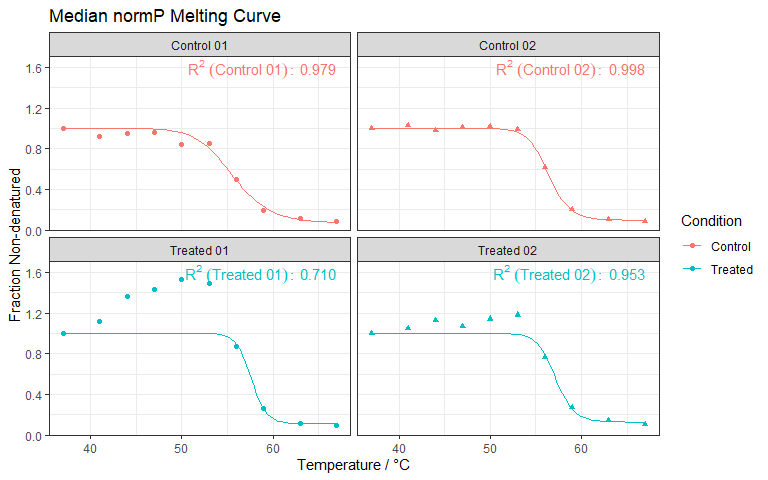
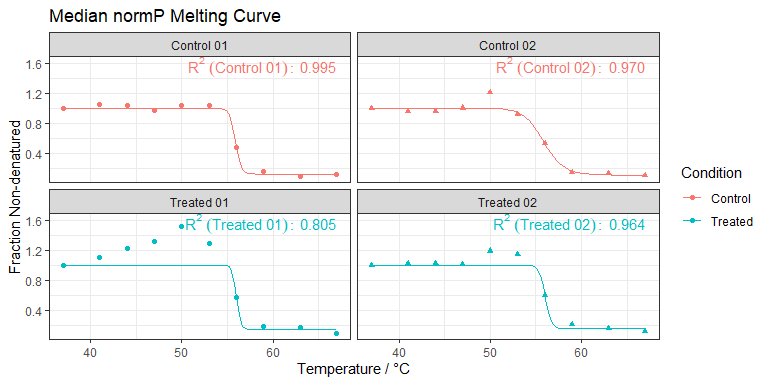
Build readme with 20-protein example

diff --git a/README.md b/README.md
@@ -138,17 +138,17 @@ and defines maximum parallel cores to use for these operations.
 - Default *4*.
 
 ``` r
-# Pipeline example: 4-protein test data
+# Pipeline example: 20-protein test data
 library(tidyTPP)
 
-four_prot_report <-
-    system.file("extdata", "4_protein_peptide_report.csv", package = "tidyTPP")
+twenty_prot_report <-
+    system.file("extdata", "20_protein_peptide_report.csv", package = "tidyTPP")
 experiment_config <-
-    system.file("extdata", "4_protein_config.csv", package = "tidyTPP")
+    system.file("extdata", "20_protein_config.csv", package = "tidyTPP")
 
 # Apply pipeline
 TPP_hits <- 
-  apply_TPP_pipeline(datafile = four_prot_report,
+  apply_TPP_pipeline(datafile = twenty_prot_report,
                     config = experiment_config,
                     import_format = "spectronaut",
                     to_plot = TRUE,
@@ -159,20 +159,21 @@ Result:
 
 ``` r
 TPP_hits
-#> # A tibble: 1 × 10
+#> # A tibble: 2 × 10
 #>   Protein_ID Condition Comparison         F_scaled p_adj_NPARC max_adj_pvalue
 #>   <chr>      <chr>     <chr>                 <dbl>       <dbl>          <dbl>
-#> 1 Protein_A  Treated   Treated_vs_Control     4.52     0.00179          0.604
+#> 1 Protein_I  Treated   Treated_vs_Control     23.2   0.0000901      0.0000141
+#> 2 Protein_C  Treated   Treated_vs_Control     14.1   0.00118        0.0981   
 #> # ℹ 4 more variables: mean_melt_point <dbl>, mean_control_melt_point <dbl>,
 #> #   mean_diff_melt_point <dbl>, mean_control_diff_melt_point <dbl>
 ```
 
 <img src="man/figures/README-apply_pipeline-4.png"
-style="width:75.0%" />
+style="width:100.0%" />
 
 ## Example: Function detail
 
-This example will walk through the main functions using 4-protein
+This example will walk through the main functions using 20-protein
 example data
 
 ### Import
@@ -182,11 +183,11 @@ program-specific format, and a configuration file, defining conditions,
 replicates and temperatures, in the format shown.
 
 ``` r
-# 4-protein example data
-four_prot_report <-
-    system.file("extdata", "4_protein_peptide_report.csv", package = "tidyTPP")
+# 20-protein example data
+twenty_prot_report <-
+    system.file("extdata", "20_protein_peptide_report.csv", package = "tidyTPP")
 experiment_config <-
-    system.file("extdata", "4_protein_config.csv", package = "tidyTPP")
+    system.file("extdata", "20_protein_config.csv", package = "tidyTPP")
 experiment_dir <- system.file("extdata", package = "tidyTPP")
   
 # Config file contents
@@ -204,52 +205,52 @@ read.csv(experiment_config)[1:10,]
 #> 10         10   Control         1   67
 
 # Import using spectronaut import format
-four_prot_quan_data <- 
-  import_spectronaut(datafile = "4_protein_peptide_report.csv",
-                     config = "4_protein_config.csv",
+twenty_prot_quan_data <- 
+  import_spectronaut(datafile = "20_protein_peptide_report.csv",
+                     config = "20_protein_config.csv",
                      path = experiment_dir)
 #> 
 #> --------------------
 #> TPP Data Import
 #> --------------------
 #> Read in:
-#> 4_protein_peptide_report.csv 
-#> 4_protein_config.csv 
+#> 20_protein_peptide_report.csv 
+#> 20_protein_config.csv 
 #> --------------------
 #> Pivoting to long table...
 #> Transforming experiment names...
 #> Matching to experiment config data...
 #> Finding relative quantity values...
 #> Data imported.
-#> Found 4 proteins.
+#> Found 20 proteins.
 #> --------------------
 
 # Resulting tibble
-four_prot_quan_data
-#> # A tibble: 160 × 8
+twenty_prot_quan_data
+#> # A tibble: 800 × 8
 #>    Protein_ID Pep_N Match_N Condition Replicate  Temp rel_quantity raw_quantity
 #>    <chr>      <dbl>   <dbl> <chr>     <chr>     <int>        <dbl>        <dbl>
-#>  1 Protein_A     36      62 Control   01           37      1           7913466.
-#>  2 Protein_A     36      62 Control   01           41      0.915       7238843 
-#>  3 Protein_A     36      62 Control   01           44      0.895       7083090 
-#>  4 Protein_A     36      62 Control   01           47      0.689       5454540.
-#>  5 Protein_A     36      62 Control   01           50      0.416       3291901 
-#>  6 Protein_A     36      62 Control   01           53      0.195       1542812.
-#>  7 Protein_A     36      62 Control   01           56      0.0458       362589.
-#>  8 Protein_A     36      62 Control   01           59      0.0168       132594.
-#>  9 Protein_A     36      62 Control   01           63      0.0258       204328.
-#> 10 Protein_A     36      62 Control   01           67      0.00986       78023.
-#> # ℹ 150 more rows
+#>  1 Protein_A     29      42 Control   01           37       1          1401047.
+#>  2 Protein_A     29      42 Control   01           41       1.05       1464157.
+#>  3 Protein_A     29      42 Control   01           44       1.06       1485400.
+#>  4 Protein_A     29      42 Control   01           47       1.12       1568061.
+#>  5 Protein_A     29      42 Control   01           50       1.35       1889459 
+#>  6 Protein_A     29      42 Control   01           53       1.29       1801219.
+#>  7 Protein_A     29      42 Control   01           56       0.450       630379.
+#>  8 Protein_A     29      42 Control   01           59       0.116       162054.
+#>  9 Protein_A     29      42 Control   01           63       0.0945      132437.
+#> 10 Protein_A     29      42 Control   01           67       0.166       232101.
+#> # ℹ 790 more rows
 ```
 
 Data at this stage can be plotted to directly observe relative but *not
 yet normalised* protein curves.
 
 ``` r
-plot_melt(four_prot_quan_data)
+plot_melt(twenty_prot_quan_data)
 ```
 
-<img src="man/figures/README-example_import_plot-1.png" width="75%" />
+<img src="man/figures/README-example_import_plot-1.png" width="100%" />
 
 ### Normalisation
 
@@ -258,9 +259,9 @@ normalising against fitted median melting curves, as described by
 Savitsky *et al.* 2014.<sup>[1](#ref-Savitski_2014)</sup>
 
 ``` r
-# Normalise four-protein data, with visualisation
-four_prot_normalised <- 
-  normalise_TPP(TPP_tbl = four_prot_quan_data,
+# Normalise twenty-protein data, with visualisation
+twenty_prot_normalised <- 
+  normalise_TPP(TPP_tbl = twenty_prot_quan_data,
                 to_plot = TRUE)
 #> --------------------
 #> TPP Normalisation
@@ -269,7 +270,7 @@ four_prot_normalised <-
 #>     col lower upper
 #> 1 Pep_N     2   Inf
 #> 
-#> jointP contains 4 Proteins.
+#> jointP contains 20 Proteins.
 #> 
 #> normP criteria:
 #>   Temp lower upper
@@ -277,52 +278,52 @@ four_prot_normalised <-
 #> 2   63  -Inf   0.3
 #> 3   67  -Inf   0.2
 #> 
-#> normP contains 2 Proteins.
+#> normP contains 6 Proteins.
 #> --------------------
 #> Fit melting curve to normP medians:
 #> 
 #> Fitting 4 protein curves...
-#> Estimated total process time: 0.92 s
+#> Estimated total process time: 2.24 s
 #> |==        | 1 of 4|=====     | 2 of 4|=======   | 3 of 4|==========| 4 of 4
 #> 4 of 4 fitted successfully.
 #> 
-#> Total elapsed time: 0.66 s
+#> Total elapsed time: 0.03 s
 #> 
 #> Best fitted normP median curve:
 #>   Condition Replicate  R_sq
-#> 1   Control        02 0.998
+#> 1   Control        01 0.995
 #> --------------------
-#> 4 proteins normalised
+#> 20 proteins normalised
 #> --------------------
 ```
 
 <img src="man/figures/README-example_normalisation-1.png"
-style="width:75.0%" />
+style="width:100.0%" />
 
 Resulting in the normalised data:
 
 ``` r
 # Plotted melting data points
-plot_melt(four_prot_normalised)
-#> # A tibble: 160 × 9
+plot_melt(twenty_prot_normalised)
+#> # A tibble: 800 × 9
 #>    Condition Replicate  Temp Protein_ID Pep_N Match_N rel_quantity raw_quantity
 #>    <chr>     <chr>     <int> <chr>      <dbl>   <dbl>        <dbl>        <dbl>
-#>  1 Control   01           37 Protein_A     36      62        1.000     7913466.
-#>  2 Control   01           37 Protein_B     62     133        1.000   371610272 
-#>  3 Control   01           37 Protein_C     23      49        1.000    94161240 
-#>  4 Control   01           37 Protein_D      5       7        1.000     4286970.
-#>  5 Control   01           41 Protein_D      5       7        1.13      4460470.
-#>  6 Control   01           41 Protein_A     36      62        0.992     7238843 
-#>  7 Control   01           41 Protein_B     62     133        1.01    345026016 
-#>  8 Control   01           41 Protein_C     23      49        0.871    75621648 
-#>  9 Control   01           44 Protein_D      5       7        1.14      4613956.
-#> 10 Control   01           44 Protein_C     23      49        0.861    76666176 
-#> # ℹ 150 more rows
+#>  1 Control   01           37 Protein_A     29      42            1     1401047.
+#>  2 Control   01           37 Protein_B     23      39            1    18637136 
+#>  3 Control   01           37 Protein_C     36      62            1     7913466.
+#>  4 Control   01           37 Protein_D     76     108            1     1695097.
+#>  5 Control   01           37 Protein_T     19      29            1     5209475 
+#>  6 Control   01           37 Protein_Q     14      17            1     2789951.
+#>  7 Control   01           37 Protein_N     19      35            1      997140.
+#>  8 Control   01           37 Protein_K     13      15            1     6945545 
+#>  9 Control   01           37 Protein_H     14      26            1     2126099 
+#> 10 Control   01           37 Protein_E     10      12            1      351740.
+#> # ℹ 790 more rows
 #> # ℹ 1 more variable: norm_coefficient <dbl>
 ```
 
 <img src="man/figures/README-example_normalisation_plot-1.png"
-style="width:75.0%" />
+style="width:100.0%" />
 
 ### Analysis
 
@@ -341,47 +342,52 @@ optionally calculated from the data:
 Default behaviour is to apply both analyses:
 
 ``` r
-# Analyse four-protein data
-four_prot_analysed <- 
-  analyse_TPP(TPP_tbl = four_prot_normalised,
+# Analyse twenty-protein data
+twenty_prot_analysed <- 
+  analyse_TPP(TPP_tbl = twenty_prot_normalised,
               control_name = "Control",
               p_value_methods = c("melting_point", "NPARC"))
 
 # Analysed data and fitted curves
-plot_melt(four_prot_analysed)
+plot_melt(twenty_prot_analysed)
+#> Warning: Removed 1000 rows containing missing values or values outside the scale range
+#> (`geom_segment()`).
+#> Warning: Removed 3000 rows containing missing values or values outside the scale range
+#> (`geom_segment()`).
+#> Warning: Removed 4000 rows containing missing values or values outside the scale range
+#> (`geom_segment()`).
 ```
 
-<img src="man/figures/README-example_analysis-1.png" width="75%" />
+<img src="man/figures/README-example_analysis-1.png" width="100%" />
 
 All statistics are appended as new measurements to the *tibble*:
 
 ``` r
 # Full table
-four_prot_analysed
-#> # A tibble: 160 × 31
+twenty_prot_analysed
+#> # A tibble: 800 × 25
 #>    Protein_ID Condition Replicate  Temp Pep_N Match_N rel_quantity raw_quantity
 #>    <chr>      <chr>     <chr>     <int> <dbl>   <dbl>        <dbl>        <dbl>
-#>  1 Protein_A  Control   01           37    36      62       1.000      7913466.
-#>  2 Protein_A  Control   01           56    36      62       0.0580      362589.
-#>  3 Protein_A  Control   01           47    36      62       0.718      5454540.
-#>  4 Protein_A  Control   01           53    36      62       0.221      1542812.
-#>  5 Protein_A  Control   01           41    36      62       0.992      7238843 
-#>  6 Protein_A  Control   01           50    36      62       0.493      3291901 
-#>  7 Protein_A  Control   01           63    36      62       0.0231      204328.
-#>  8 Protein_A  Control   01           44    36      62       0.947      7083090 
-#>  9 Protein_A  Control   01           67    36      62       0.0111       78023.
-#> 10 Protein_A  Control   01           59    36      62       0.0167      132594.
-#> # ℹ 150 more rows
-#> # ℹ 23 more variables: norm_coefficient <dbl>, F_scaled <dbl>,
+#>  1 Protein_A  Control   01           37    29      42       1          1401047.
+#>  2 Protein_A  Control   01           47    29      42       1.15       1568061.
+#>  3 Protein_A  Control   01           50    29      42       1.30       1889459 
+#>  4 Protein_A  Control   01           59    29      42       0.0904      162054.
+#>  5 Protein_A  Control   01           67    29      42       0.166       232101.
+#>  6 Protein_A  Control   01           53    29      42       1.23       1801219.
+#>  7 Protein_A  Control   01           56    29      42       0.450       630379.
+#>  8 Protein_A  Control   01           44    29      42       1.03       1485400.
+#>  9 Protein_A  Control   01           63    29      42       0.131       132437.
+#> 10 Protein_A  Control   01           41    29      42       0.999      1464157.
+#> # ℹ 790 more rows
+#> # ℹ 17 more variables: norm_coefficient <dbl>, F_scaled <dbl>,
 #> #   p_adj_NPARC <dbl>, a <dbl>, b <dbl>, plateau <dbl>, melt_point <dbl>,
-#> #   infl_point <dbl>, slope <dbl>, R_sq <dbl>, RSS <dbl>, sigma <dbl>,
-#> #   n_coeffs <int>, n_obs <int>, log_lik <dbl>, AICc <dbl>, Comparison <chr>,
+#> #   infl_point <dbl>, slope <dbl>, R_sq <dbl>, Comparison <chr>,
 #> #   diff_melt_point <dbl>, min_comparison_slope <dbl>, min_R_sq <dbl>,
 #> #   min_slope <dbl>, max_control_plateau <dbl>, adj_pvalue <dbl>
 
 # Statistics only
 one_prot_stats <- 
-  four_prot_analysed |>
+  twenty_prot_analysed |>
   dplyr::filter(Protein_ID == "Protein_A", Condition != "Control") |>
   dplyr::select(Protein_ID, 
                 Condition, 
@@ -406,8 +412,8 @@ one_prot_stats |>
 #> # A tibble: 2 × 6
 #>   Protein_ID Condition Replicate melt_point diff_melt_point adj_pvalue
 #>   <chr>      <chr>     <chr>          <dbl>           <dbl>      <dbl>
-#> 1 Protein_A  Treated   01              51.3            1.63      0.604
-#> 2 Protein_A  Treated   02              50.5            1.36      0.604
+#> 1 Protein_A  Treated   01              56.0          0.0801      0.998
+#> 2 Protein_A  Treated   02              56.0          0.0851      0.998
 
 # 2. NPARC
 one_prot_stats |>
@@ -420,7 +426,7 @@ one_prot_stats |>
 #> # A tibble: 1 × 4
 #>   Protein_ID Condition F_scaled p_adj_NPARC
 #>   <chr>      <chr>        <dbl>       <dbl>
-#> 1 Protein_A  Treated       4.52     0.00179
+#> 1 Protein_A  Treated      0.128       0.994
 ```
 
 ### Hit Identification
@@ -432,9 +438,9 @@ across replicates, and $\Delta T_m$ for comparisons against controls
 greater than between controls.<sup>[1](#ref-Savitski_2014)</sup>
 
 ``` r
-# Get hits from analysed four-protein data
-four_prot_hits <- 
-  get_TPP_hits(TPP_data = four_prot_analysed,
+# Get hits from analysed twenty-protein data
+twenty_prot_hits <- 
+  get_TPP_hits(TPP_data = twenty_prot_analysed,
                hit_criteria = "default_hit_criteria",
                to_plot = TRUE,
                annotate = "melt_point")
@@ -454,19 +460,20 @@ four_prot_hits <-
 #> Saved.
 #> --------------------
 #> Plotting hit melting curves...
-#> 1 hits found.
+#> 2 hits found.
 #> --------------------
 
-four_prot_hits
-#> # A tibble: 1 × 10
+twenty_prot_hits
+#> # A tibble: 2 × 10
 #>   Protein_ID Condition Comparison         F_scaled p_adj_NPARC max_adj_pvalue
 #>   <chr>      <chr>     <chr>                 <dbl>       <dbl>          <dbl>
-#> 1 Protein_A  Treated   Treated_vs_Control     4.52     0.00179          0.604
+#> 1 Protein_I  Treated   Treated_vs_Control     23.2   0.0000901      0.0000141
+#> 2 Protein_C  Treated   Treated_vs_Control     14.1   0.00118        0.0981   
 #> # ℹ 4 more variables: mean_melt_point <dbl>, mean_control_melt_point <dbl>,
 #> #   mean_diff_melt_point <dbl>, mean_control_diff_melt_point <dbl>
 ```
 
-<img src="man/figures/README-example_hits-1.png" style="width:75.0%" />
+<img src="man/figures/README-example_hits-1.png" style="width:100.0%" />
 
 ### Export
 
@@ -476,7 +483,7 @@ are delimited text files (.csv, .tsv) or R data.
 
 ``` r
 # Export as .xlsx
-export_TPP(TPP_data = four_prot_analysed,
+export_TPP(TPP_data = twenty_prot_analysed,
            file_name = "TPP_results.xlsx",
            format = "xlsx")
 ```
